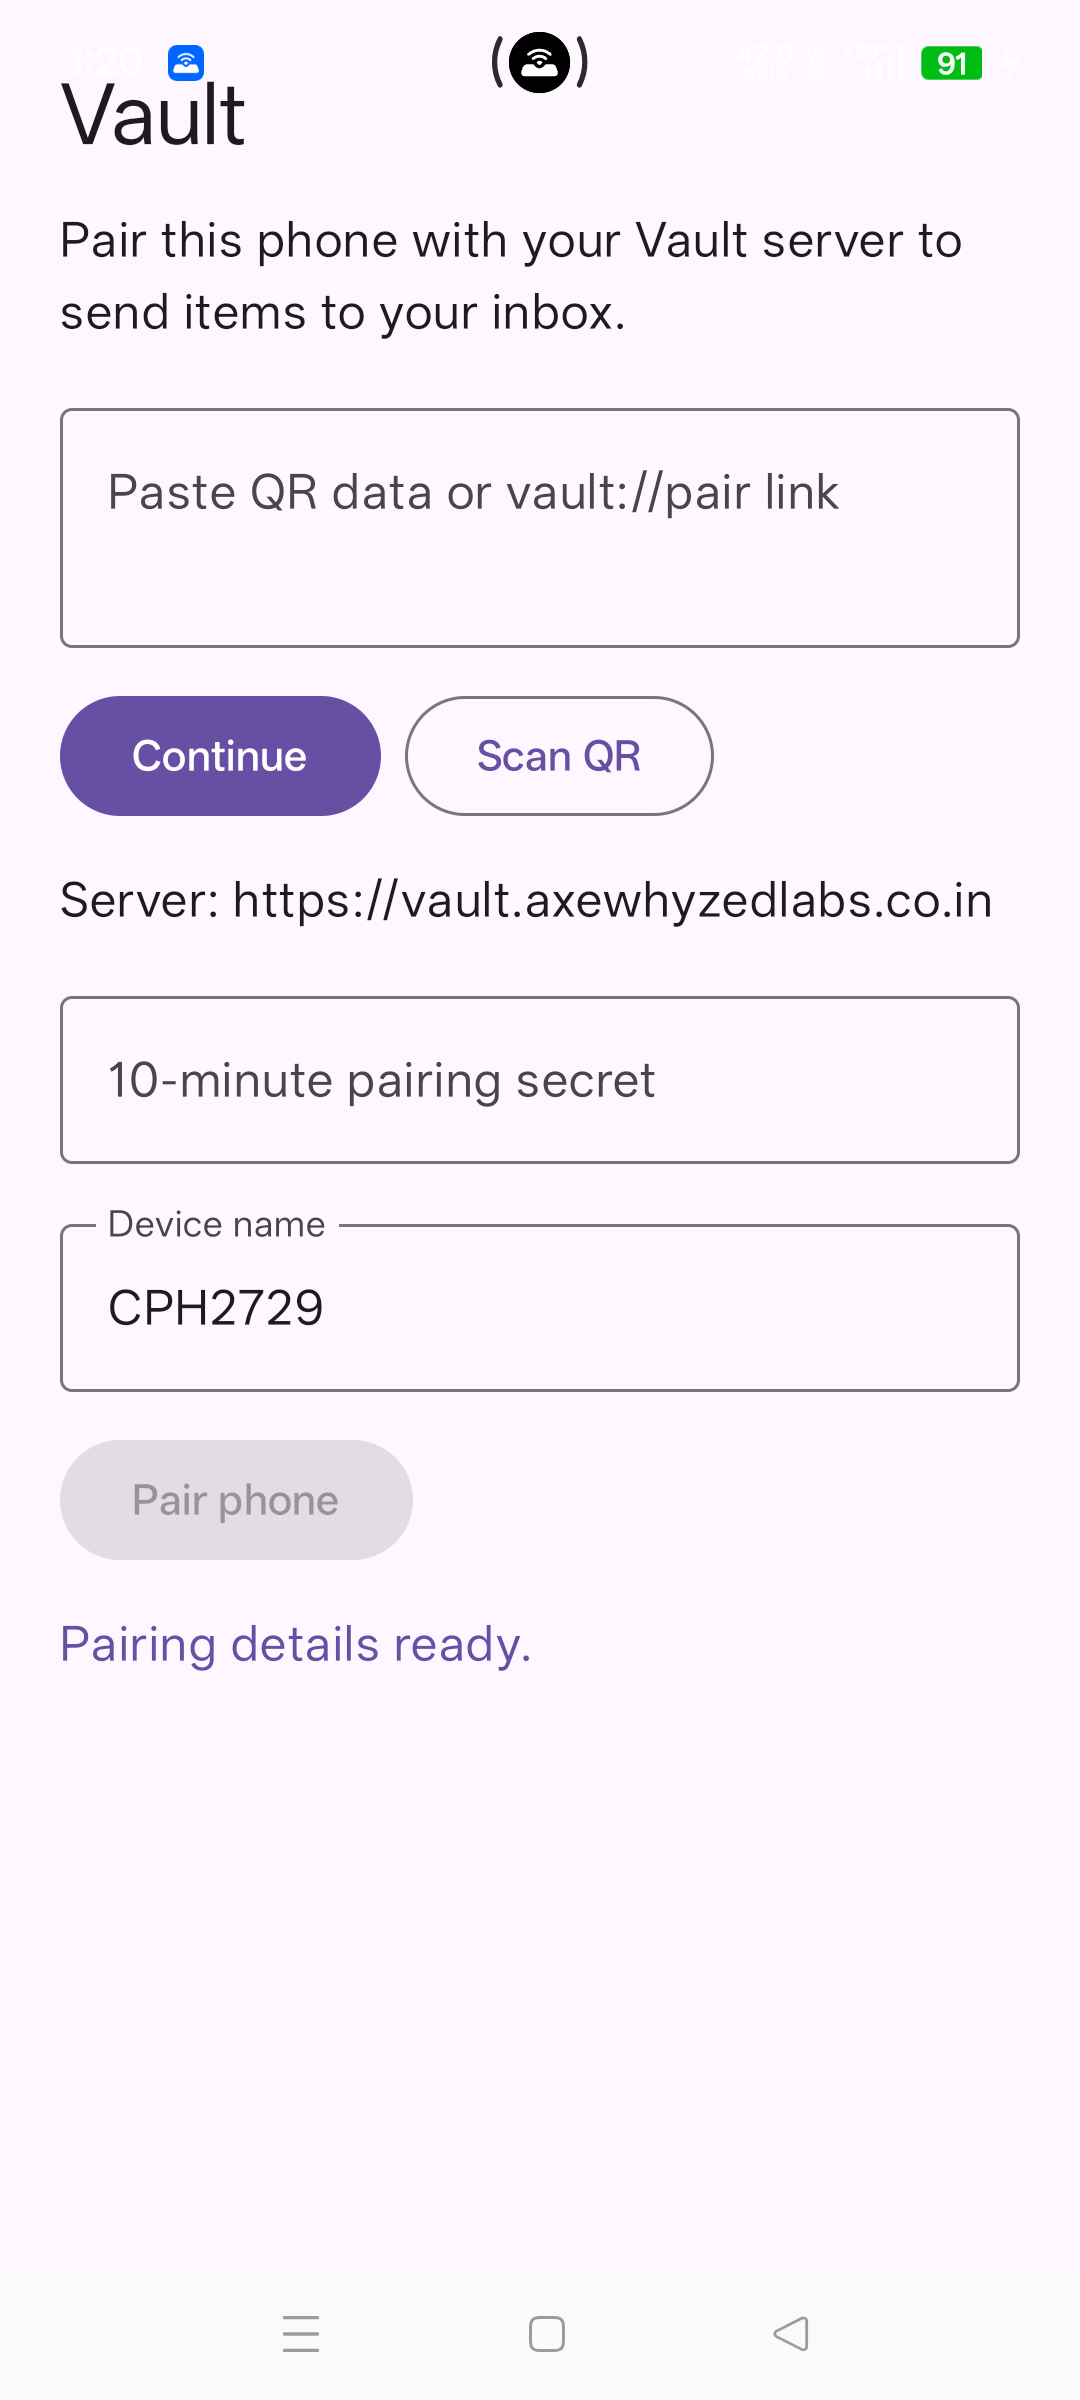
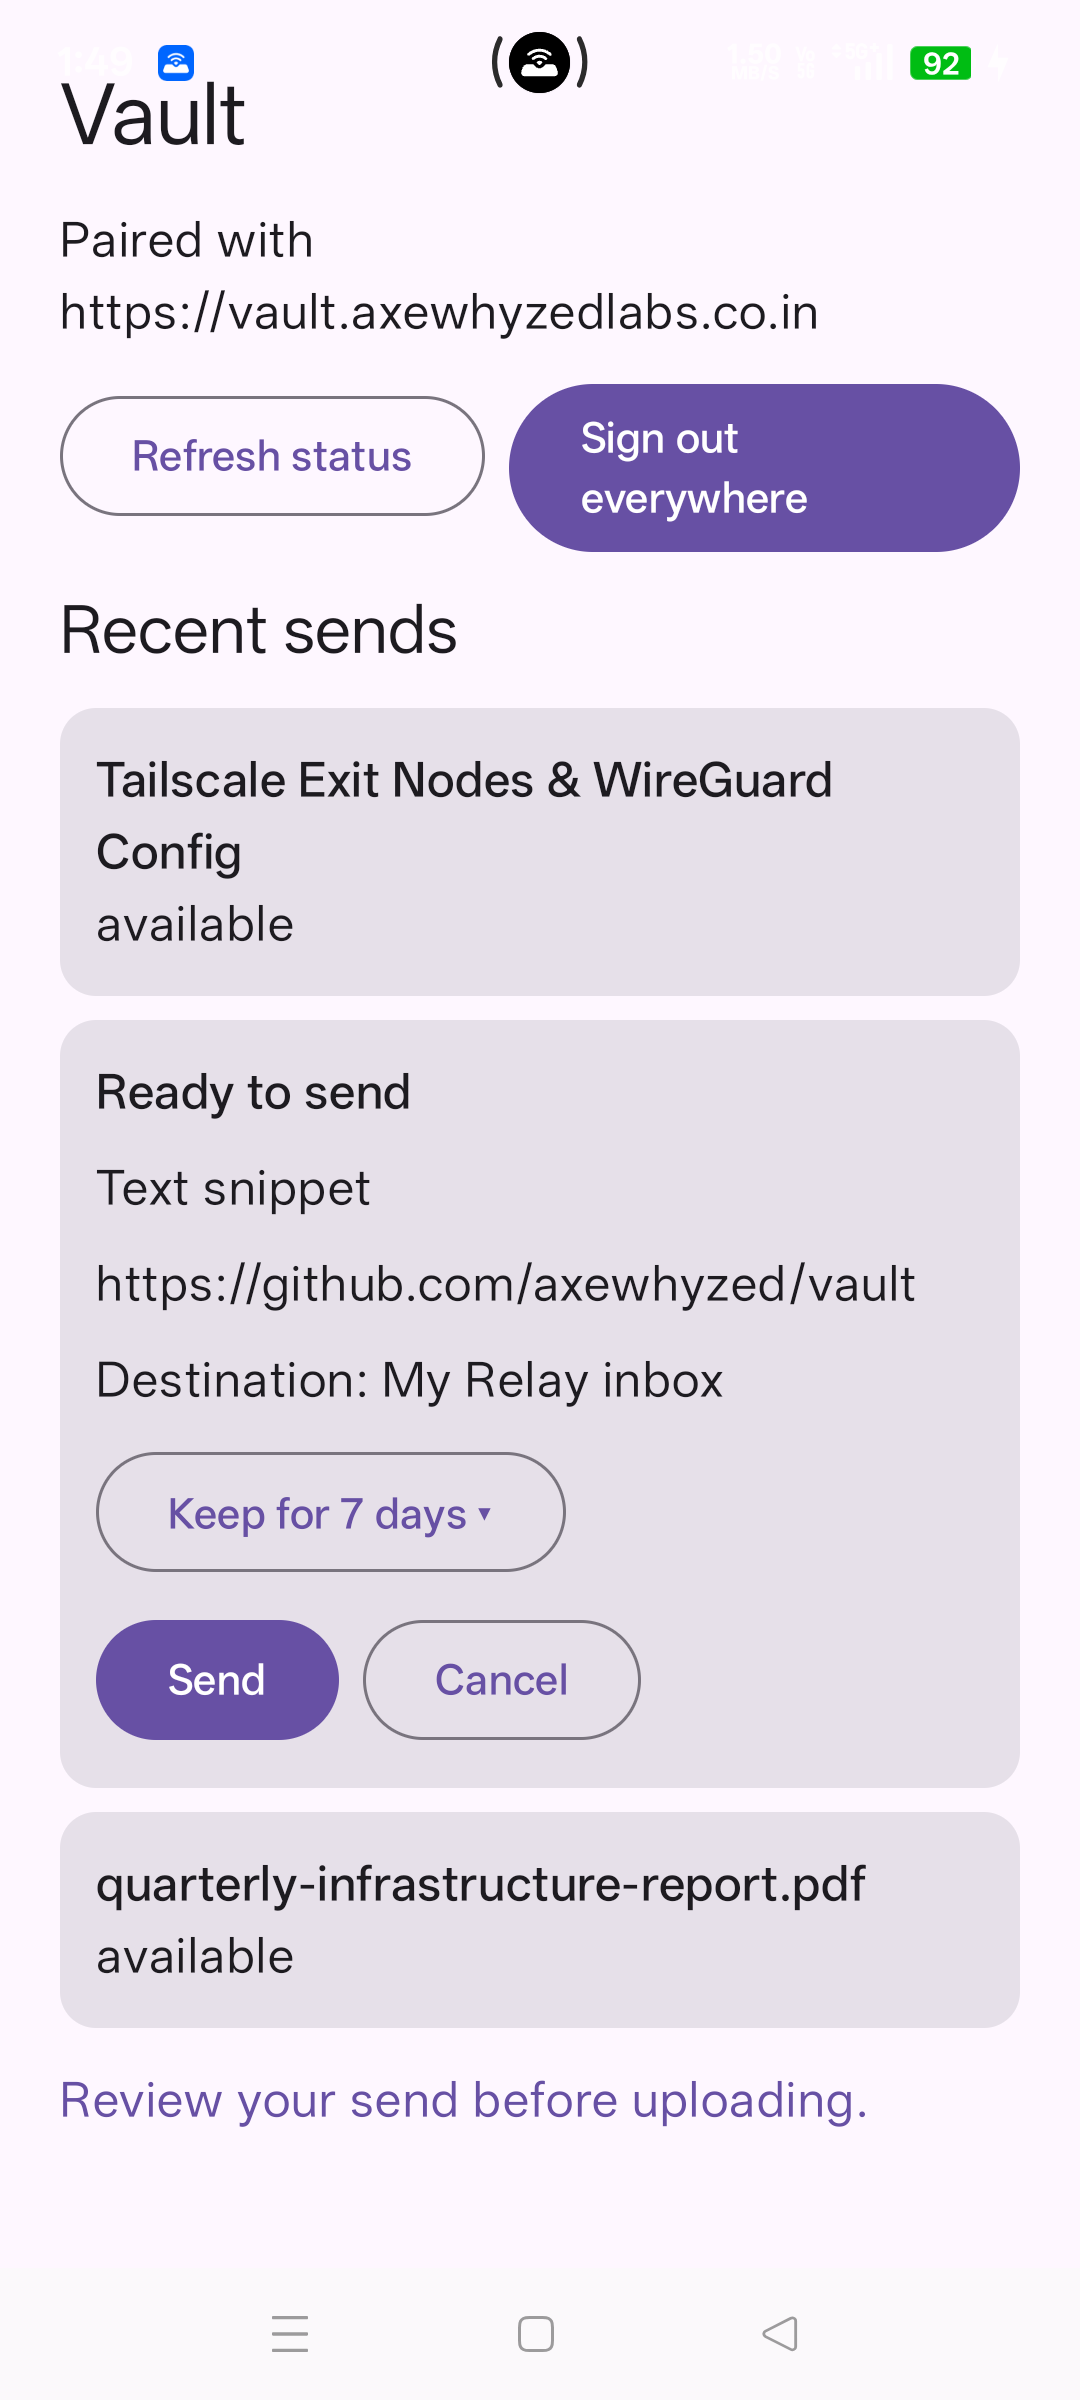
feat(android): support verification demo mode and update connected UI screenshot

diff --git a/android/app/src/main/java/app/vault/android/MainActivity.kt b/android/app/src/main/java/app/vault/android/MainActivity.kt
@@ -53,6 +53,43 @@ class MainActivity : ComponentActivity() {
     }
 
     private fun handleIncoming(intent: Intent?) {
+        if (intent?.getBooleanExtra("vault_demo_mode", false) == true) {
+            val origin = intent.getStringExtra("vault_demo_origin") ?: BuildConfig.PAIRING_SERVER_ORIGIN
+            store.saveCredentials(Credentials(
+                origin = origin,
+                accessToken = "demo_access_token",
+                accessExpiry = "2099-01-01T00:00:00Z",
+                refreshToken = "demo_refresh_token",
+                refreshExpiry = "2099-01-01T00:00:00Z",
+                userId = "usr_owner_01",
+                deviceId = "dev_phone_01"
+            ))
+            store.saveDraft(Draft(
+                id = UUID.randomUUID().toString(),
+                idempotencyKey = UUID.randomUUID().toString(),
+                serverOrigin = origin,
+                ownerUserId = "usr_owner_01",
+                displayName = "quarterly-infrastructure-report.pdf",
+                contentType = "application/pdf",
+                sizeBytes = 8420000,
+                bytesSent = 8420000,
+                state = DraftState.AVAILABLE
+            ))
+            store.saveDraft(Draft(
+                id = UUID.randomUUID().toString(),
+                idempotencyKey = UUID.randomUUID().toString(),
+                serverOrigin = origin,
+                ownerUserId = "usr_owner_01",
+                displayName = "Tailscale Exit Nodes & WireGuard Config",
+                text = "Server: 192.168.1.100\nTailscale exit: 100.64.0.1",
+                contentType = "text/plain",
+                sizeBytes = 284,
+                bytesSent = 284,
+                state = DraftState.AVAILABLE
+            ))
+            statusMessage = "Paired with Vault server."
+            refreshCounter++
+        }
         if (intent?.action == Intent.ACTION_VIEW) intent.dataString?.let(::parsePairing)
         if (intent?.action != Intent.ACTION_SEND) return
         lifecycleScope.launch {

diff --git a/README.md b/README.md
@@ -50,7 +50,7 @@ Share links, snippets, photos, and files up to 100 MB directly from Android's na
 <td align="center" valign="top">
 <img src="docs/assets/android-client.png" alt="Vault Android Client" width="280px" />
 <br/>
-<sub><i>Native Kotlin + Compose client targeting Android's system share sheet with offline spooling and WorkManager background uploads.</i></sub>
+<sub><i>Paired Android client receiving a shared link via the native system share sheet with retention selection and upload history.</i></sub>
 </td>
 <td align="center" valign="top">
 <img src="docs/assets/web-pairing.png" alt="Vault Web Pairing Modal" width="100%" />
